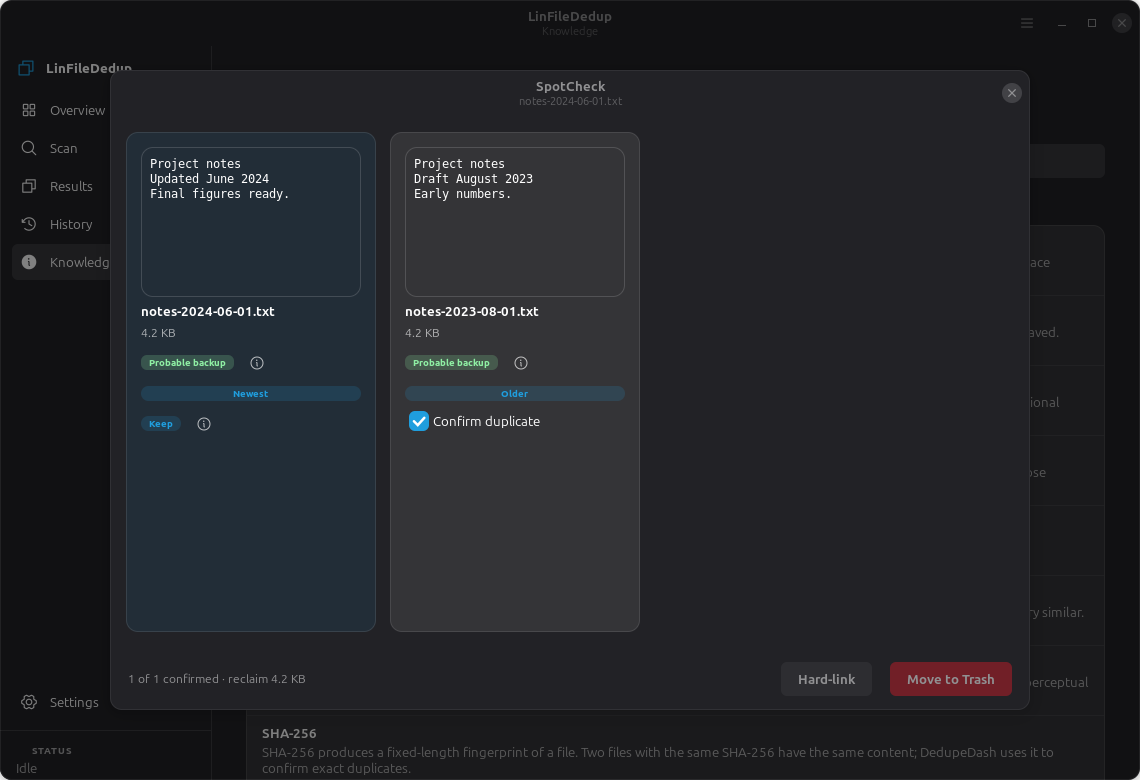
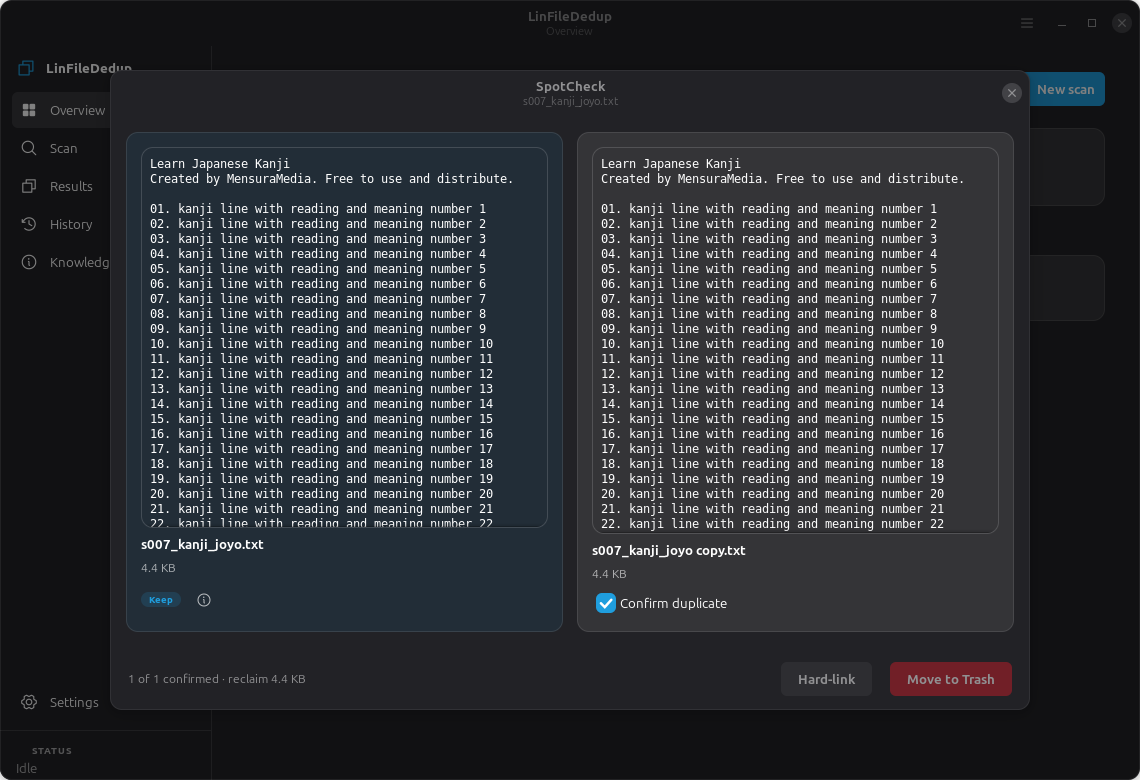
SpotCheck: expand previews to fill the modal
Panels are now equal-width and fill the modal (homogeneous, hexpand) instead of
a fixed 250px, and each preview area grows to fill the panel height (hexpand +
vexpand, 200px minimum) and scrolls, instead of a fixed 220x150 box. Raised
preview content to 200 lines / 6000 chars so documents show much more. Many-file
groups (>4) fall back to a horizontal scroll with a sensible min panel width.

diff --git a/src/linfilededuplication/ui/pages/spotcheck.py b/src/linfilededuplication/ui/pages/spotcheck.py
@@ -32,17 +32,21 @@ class SpotCheckDialog(Adw.Dialog):
         header.set_title_widget(Adw.WindowTitle(title=_("SpotCheck"), subtitle=group.title))
         toolbar.add_top_bar(header)
 
-        scroller = Gtk.ScrolledWindow(hexpand=True, vexpand=True)
-        scroller.set_policy(Gtk.PolicyType.AUTOMATIC, Gtk.PolicyType.AUTOMATIC)
-        panels = Gtk.Box(spacing=14)
+        count = len(group.files)
+        panels = Gtk.Box(spacing=14, hexpand=True, vexpand=True, homogeneous=count <= 4)
         panels.set_margin_top(16)
         panels.set_margin_bottom(16)
         panels.set_margin_start(16)
         panels.set_margin_end(16)
         for f in group.files:
-            panels.append(self._panel(f))
-        scroller.set_child(panels)
-        toolbar.set_content(scroller)
+            panels.append(self._panel(f, count))
+        if count <= 4:                          # few files: fill the modal width
+            toolbar.set_content(panels)
+        else:                                   # many files: scroll horizontally
+            scroller = Gtk.ScrolledWindow(hexpand=True, vexpand=True)
+            scroller.set_policy(Gtk.PolicyType.AUTOMATIC, Gtk.PolicyType.NEVER)
+            scroller.set_child(panels)
+            toolbar.set_content(scroller)
 
         bottom = Gtk.Box(spacing=12)
         bottom.add_css_class("toolbar")
@@ -65,10 +69,11 @@ class SpotCheckDialog(Adw.Dialog):
         self.set_child(toolbar)
         self._refresh()
 
-    def _panel(self, f: FileEntry) -> Gtk.Widget:
-        panel = Gtk.Box(orientation=Gtk.Orientation.VERTICAL, spacing=6)
+    def _panel(self, f: FileEntry, count: int) -> Gtk.Widget:
+        panel = Gtk.Box(orientation=Gtk.Orientation.VERTICAL, spacing=8, hexpand=True, vexpand=True)
         panel.add_css_class("app-card")
-        panel.set_size_request(250, -1)
+        if count > 4:
+            panel.set_size_request(300, -1)     # min width when the row scrolls
         if f.keeper:
             panel.add_css_class("app-keep")
 
@@ -112,17 +117,19 @@ class SpotCheckDialog(Adw.Dialog):
 
     def _preview_widget(self, f: FileEntry) -> Gtk.Widget:
         pv = previewmod.preview(f.path)
-        frame = Gtk.Frame()
-        frame.set_size_request(220, 150)
+        frame = Gtk.Frame(hexpand=True, vexpand=True)
+        frame.set_size_request(-1, 200)         # minimum height; grows to fill
         if pv.kind == previewmod.KIND_IMAGE and pv.image_path:
             pic = Gtk.Picture.new_for_filename(pv.image_path)
             pic.set_content_fit(Gtk.ContentFit.CONTAIN)
-            pic.set_size_request(220, 150)
+            pic.set_hexpand(True)
+            pic.set_vexpand(True)
             frame.set_child(pic)
         else:
-            sw = Gtk.ScrolledWindow()
+            sw = Gtk.ScrolledWindow(hexpand=True, vexpand=True)
             sw.set_policy(Gtk.PolicyType.NEVER, Gtk.PolicyType.AUTOMATIC)
-            lbl = Gtk.Label(label=pv.text or pv.note or _("No preview"), xalign=0.0, yalign=0.0, wrap=True)
+            lbl = Gtk.Label(label=pv.text or pv.note or _("No preview"), xalign=0.0, yalign=0.0,
+                            wrap=True, hexpand=True)
             lbl.add_css_class("app-mono")
             lbl.add_css_class("app-small")
             lbl.set_margin_top(8)

diff --git a/src/linfilededuplication/core/preview.py b/src/linfilededuplication/core/preview.py
@@ -18,8 +18,8 @@ KIND_IMAGE = "image"
 KIND_TEXT = "text"
 KIND_META = "meta"
 
-MAX_BYTES = 16 * 1024
-MAX_LINES = 40
+MAX_BYTES = 64 * 1024
+MAX_LINES = 200
 
 _IMAGE_EXT = {".jpg", ".jpeg", ".png", ".gif", ".bmp", ".tiff", ".tif", ".webp"}
 _TEXT_EXT = {".txt", ".md", ".rst", ".log", ".csv", ".tsv", ".json", ".yaml", ".yml", ".toml",
@@ -81,7 +81,7 @@ def _office_snippet(path: str) -> Preview:
                 return _meta(path, "Office document")
             with z.open(member) as fh:
                 text = _strip_xml(fh.read(MAX_BYTES * 4).decode("utf-8", errors="replace"))
-            return Preview(KIND_TEXT, os.path.basename(path), text=text[:2000])
+            return Preview(KIND_TEXT, os.path.basename(path), text=text[:6000])
     except (OSError, zipfile.BadZipFile) as exc:
         return _meta(path, f"Could not read document: {exc}")
 
@@ -113,7 +113,7 @@ def _pdf_snippet(path: str) -> Preview:
                              capture_output=True, timeout=8, text=True)
         text = (out.stdout or "").strip()
         if text:
-            return Preview(KIND_TEXT, os.path.basename(path), text=text[:2000], note="page 1")
+            return Preview(KIND_TEXT, os.path.basename(path), text=text[:6000], note="page 1")
     except (OSError, subprocess.SubprocessError):
         pass
     try:                                             # optional pure-python fallback
@@ -122,7 +122,7 @@ def _pdf_snippet(path: str) -> Preview:
         text = (reader.pages[0].extract_text() or "").strip() if reader.pages else ""
         note = f"{len(reader.pages)} pages"
         if text:
-            return Preview(KIND_TEXT, os.path.basename(path), text=text[:2000], note=note)
+            return Preview(KIND_TEXT, os.path.basename(path), text=text[:6000], note=note)
         return _meta(path, note)
     except Exception:
         return _meta(path, "PDF (install poppler-utils to preview text)")

diff --git a/changelog.md b/changelog.md
@@ -21,3 +21,4 @@ Append-only. Format: `| ISO-8601 datetime | description |`.
 | 2026-09-29 | Backup policy tie-break: within a close time window (`BACKUP_CLOSE_SECONDS`), keep the non-backup original over a marginally newer `.bak`. 30 tests passing. |
 | 2026-09-29 | Renamed visible app to LinFileDedup (uniform with the lin-* series); fixed install.sh nesting src on reinstall; re-captured screenshots. |
 | 2026-09-29 | Scanning indicator: a live radar-sweep header widget (`ui/widgets/scan_spinner.py`, Cairo, accent-coloured, theme-aware) shown while a scan runs, kept visible ≥ `SCAN_MIN_SECONDS` (1.6s) even on sub-second scans. |
+| 2026-09-29 | SpotCheck previews now expand to fill the modal: panels are equal-width and fill the width, preview areas grow to fill height (min 200px) and scroll; preview content raised to 200 lines / 6000 chars. |
